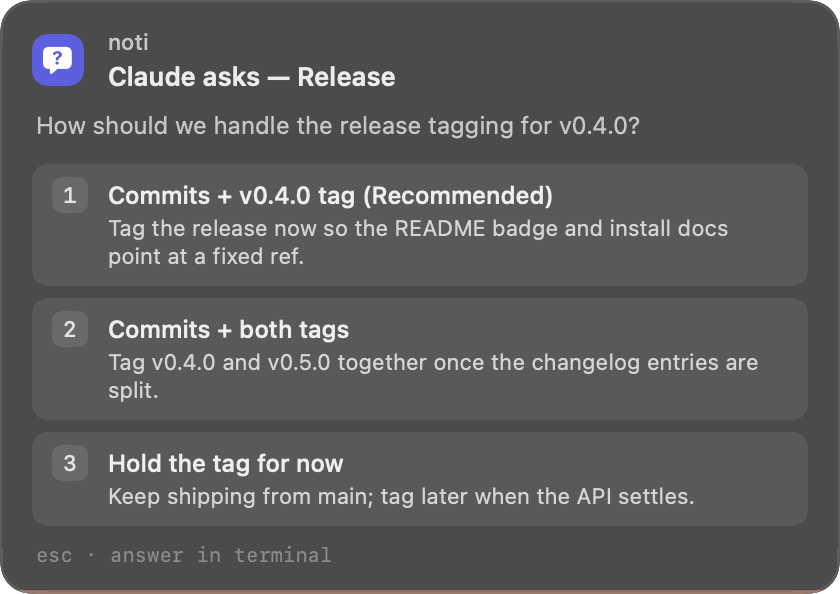
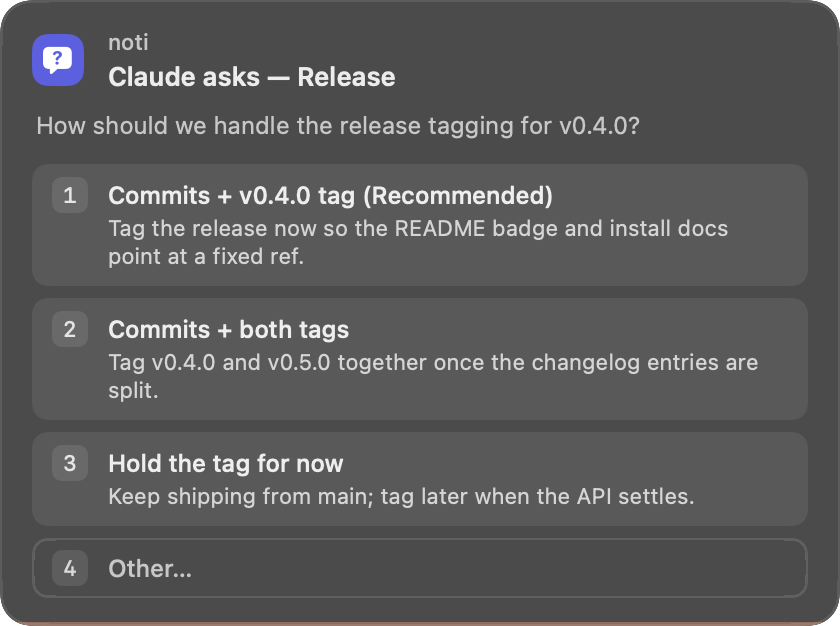
README shows the pet: summons + error screenshots, and a regen script
The screenshot grid predated the whole v0.6.0 wave — no pet, no error
toast, no Other row on the question card. All images now regenerate from
the live binary via docs/make-screenshots.sh (the old hand-run renders
proved byte-identical for the unchanged cards, so the script is faithful),
and the grid gains the standing summons and turn-died cells in both
palettes.

diff --git a/README.md b/README.md
@@ -76,7 +76,19 @@ Claude Code hooks.
 <sub><b>Summary</b> — the trimmed final message + a tool tally</sub>
 </td>
 </tr>
+<tr>
+<td align="center" width="50%">
+<picture><source media="(prefers-color-scheme: dark)" srcset="docs/summons-dark.png"><img alt="The pet's standing summons: a small robot holding a Claude needs you card that shows how long it has stood" src="docs/summons-light.png" width="288"></picture><br>
+<sub><b>Standing summons</b> (opt-in pet) — persists until answered; click to focus the owning terminal</sub>
+</td>
+<td align="center" width="50%">
+<picture><source media="(prefers-color-scheme: dark)" srcset="docs/error-dark.png"><img alt="Red error toast saying the turn ended on a rate limit, with the dead turn's tally" src="docs/error-light.png" width="360"></picture><br>
+<sub><b>Turn died</b> — rate limit, auth, or server error; silence was the old behavior</sub>
+</td>
+</tr>
 </table>
+
+All of these regenerate from the live binary via `docs/make-screenshots.sh`.
 
 <sub>Cards follow the system light/dark palette (shown here in both); the icon
 chip's tint is the risk class, its glyph the tool.</sub>

diff --git a/CHANGELOG.md b/CHANGELOG.md
@@ -21,6 +21,13 @@ adheres to [Semantic Versioning](https://semver.org/spec/v2.0.0.html).
   decision. Existing installs: `noti uninstall && noti install` to register
   the new events; `noti doctor` flags the drift.
 
+### Documentation
+- **README screenshots regenerated and completed.** The "What it looks like"
+  grid now includes the pet's standing summons and the turn-died error toast
+  (both palettes), the question card shows its "Other…" row, and every image
+  regenerates from the live binary via `docs/make-screenshots.sh` — the
+  renders were previously hand-run and had silently fallen a release behind.
+
 ## [0.6.0] — 2026-07-16
 
 The pet release: the summons gets somewhere to stand. An opt-in floating